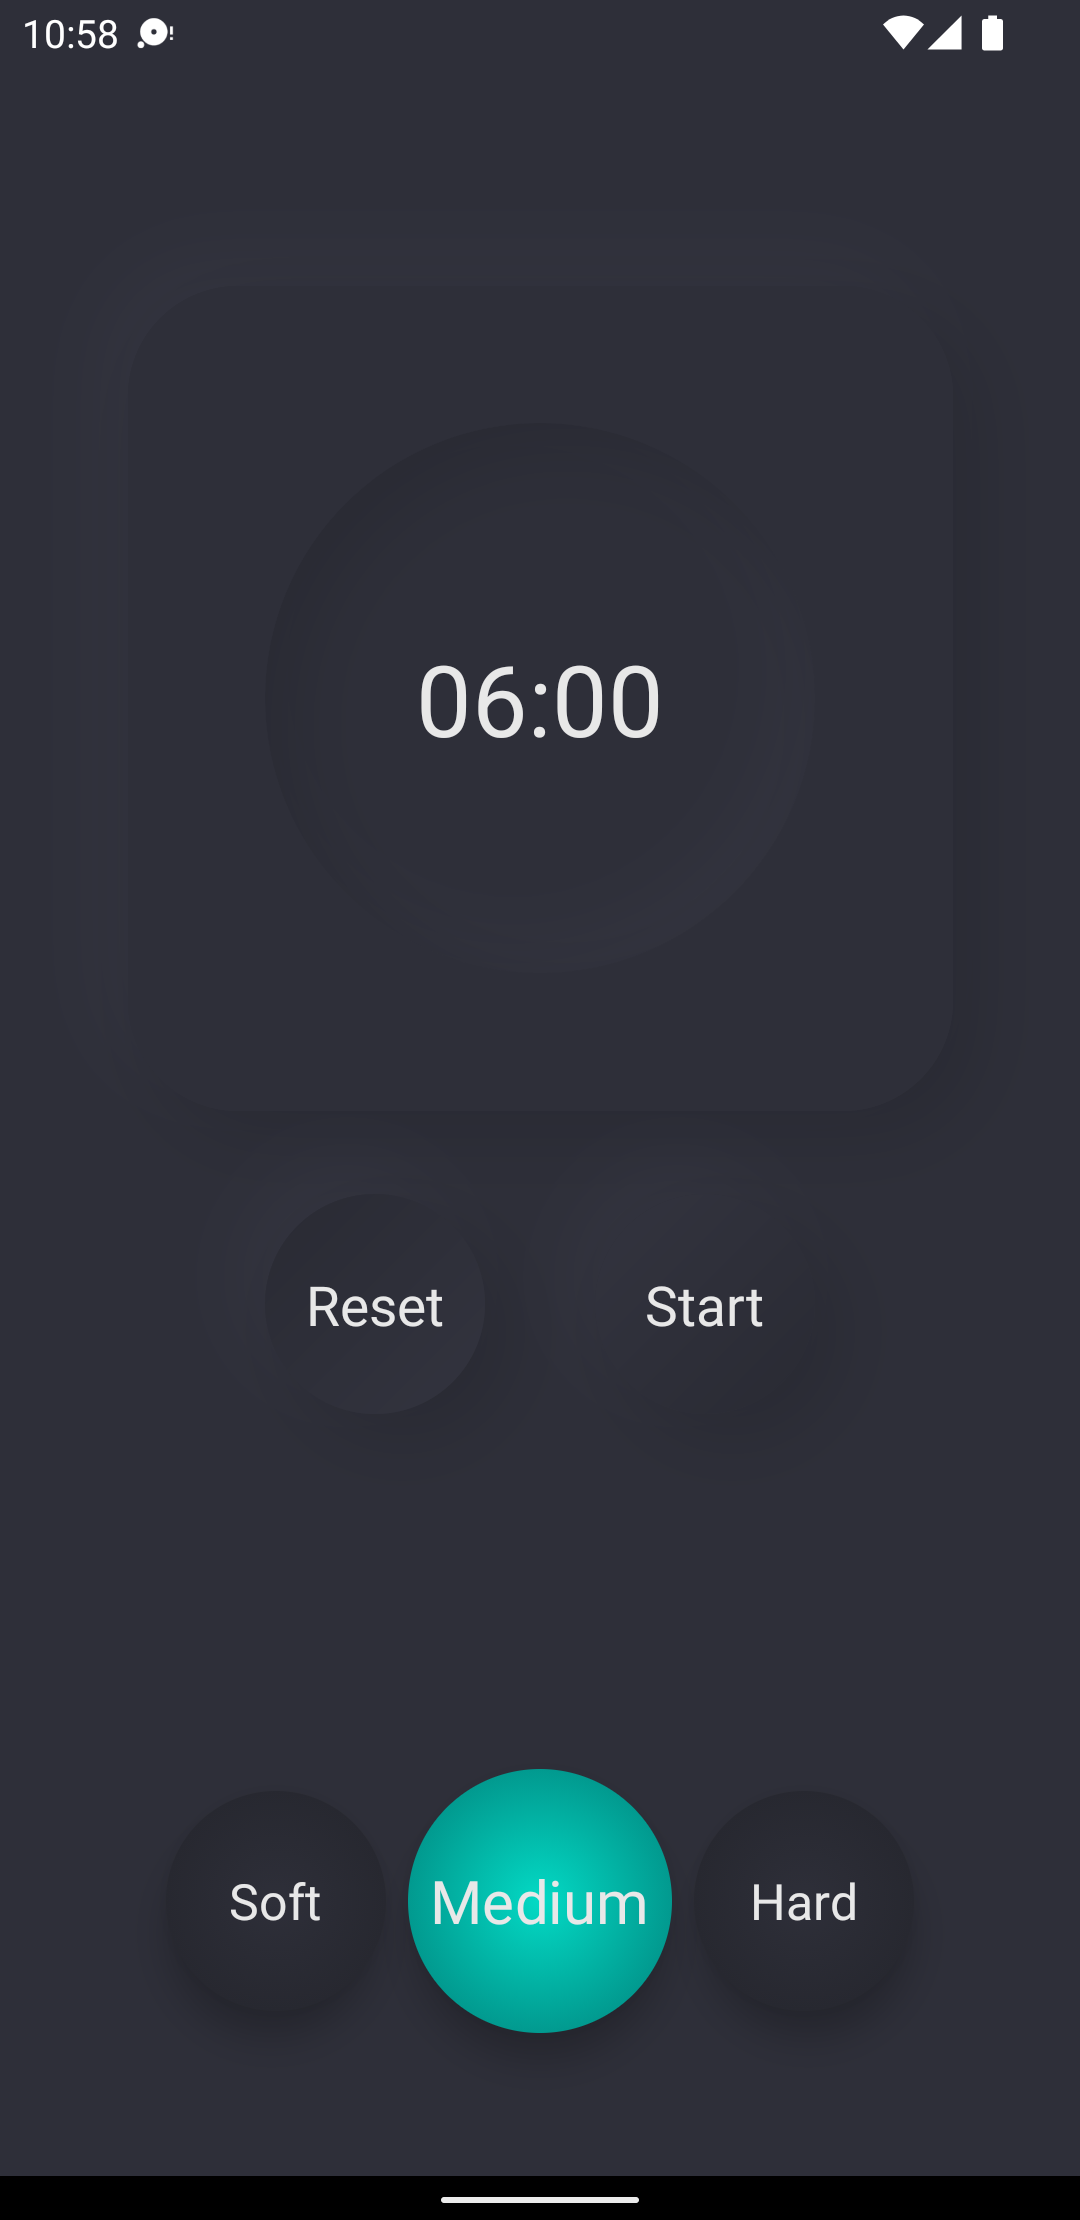
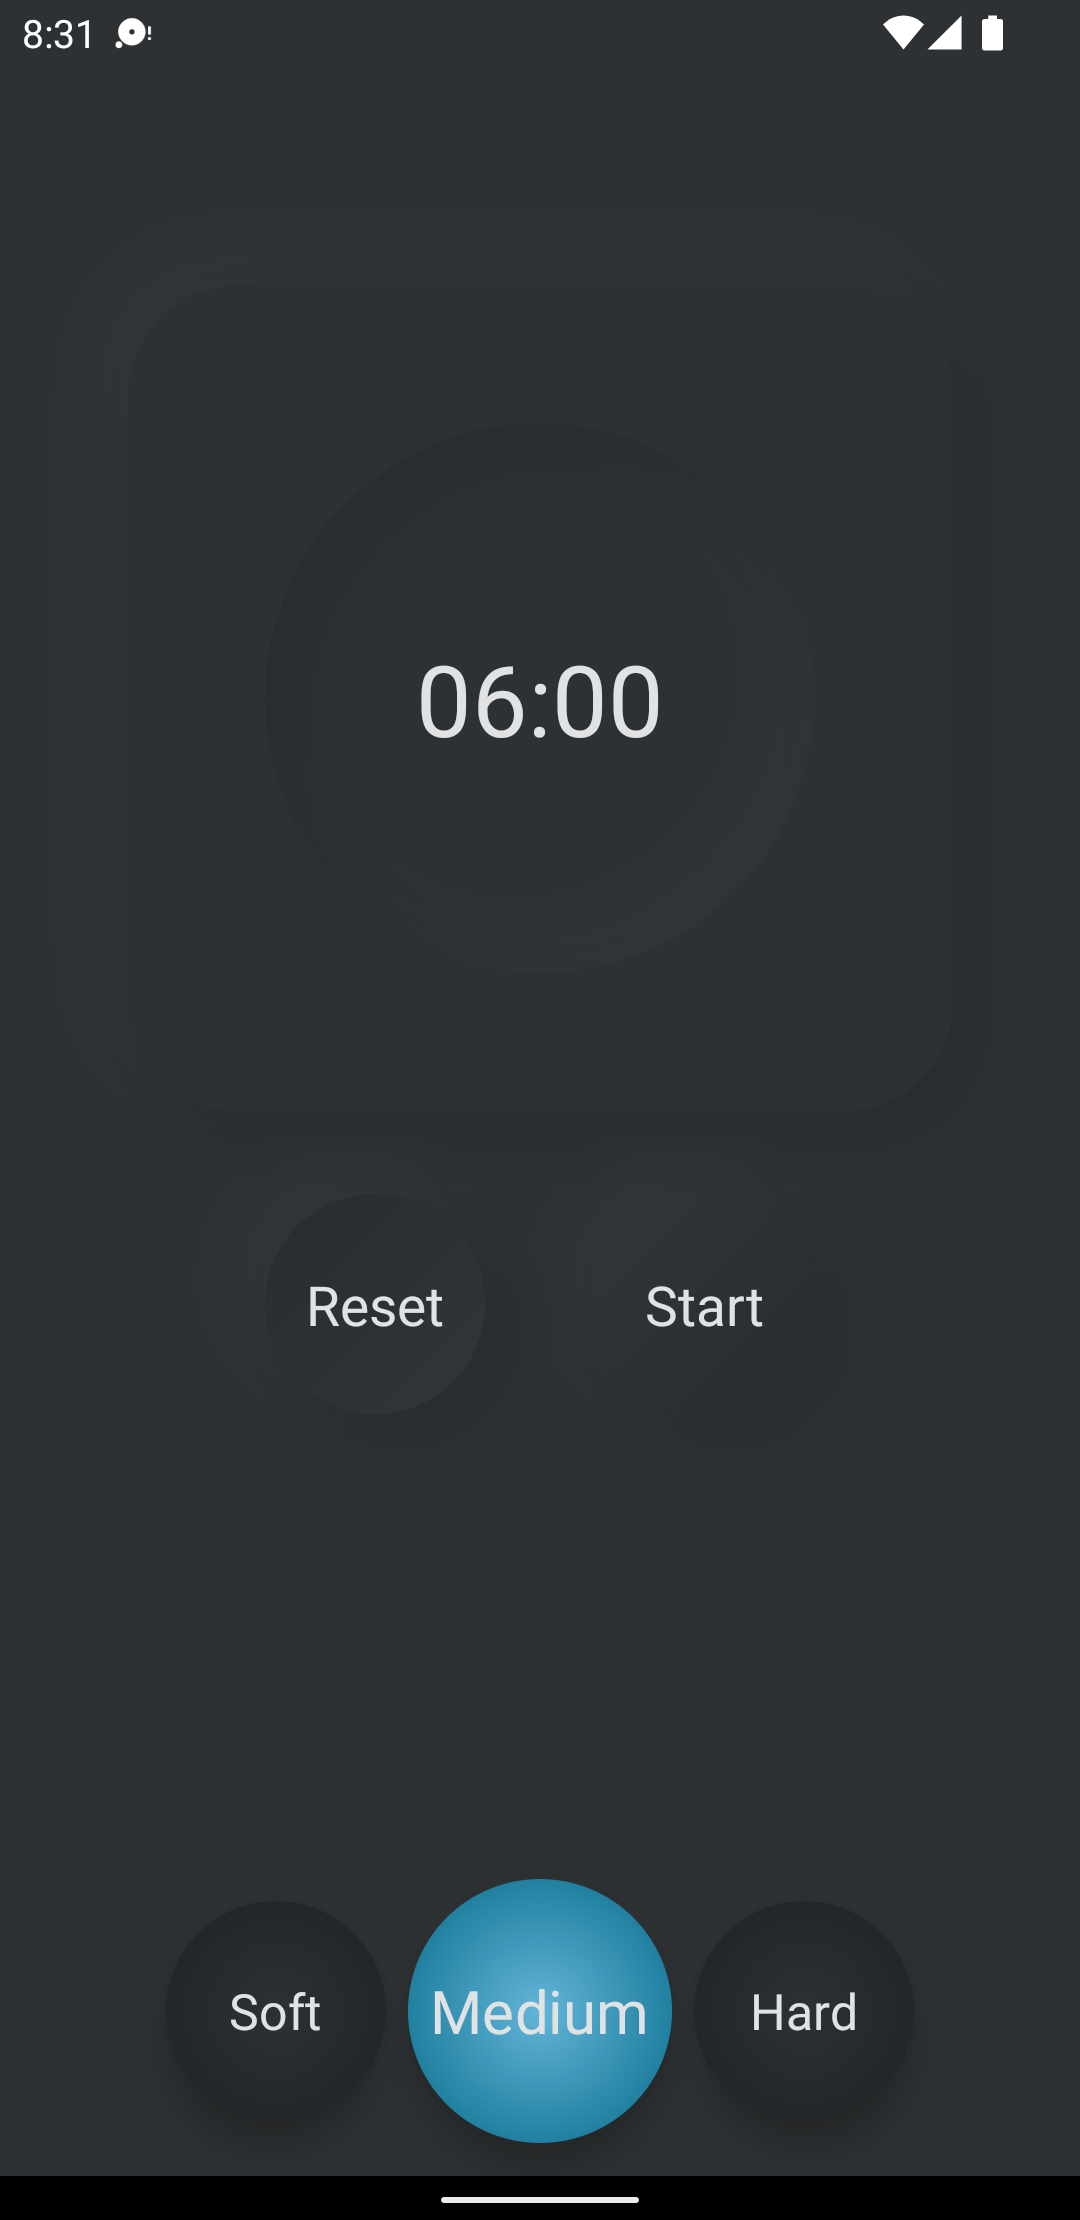
Add Material You support

diff --git a/app/src/main/java/com/tarikyasar/eggtimer/MainActivity.kt b/app/src/main/java/com/tarikyasar/eggtimer/MainActivity.kt
@@ -9,7 +9,6 @@ import android.view.MotionEvent
 import android.view.animation.Animation
 import android.view.animation.AnimationUtils
 import androidx.appcompat.app.AppCompatActivity
-import androidx.core.widget.addTextChangedListener
 import com.borutsky.neumorphism.NeumorphicFrameLayout
 import com.tarikyasar.eggtimer.databinding.ActivityMainBinding
 import com.tarikyasar.eggtimer.utils.Constants
@@ -131,33 +130,23 @@ class MainActivity : AppCompatActivity() {
             when (checkedId) {
                 R.id.radioButtonSoftCooked -> {
                     cookTime = eggMap[EggCookTypes.SOFT_BOILED]!!
+                    binding.etTimer.setText(TimeUtils.formatTime(cookTime * Constants.DEFAULT_TIME))
+
                 }
                 R.id.radioButtonMediumCooked -> {
                     cookTime = eggMap[EggCookTypes.MEDIUM_BOILED]!!
+                    binding.etTimer.setText(TimeUtils.formatTime(cookTime * Constants.DEFAULT_TIME))
+
 
                 }
                 R.id.radioButtonHardCooked -> {
                     cookTime = eggMap[EggCookTypes.HARD_BOILED]!!
+                    binding.etTimer.setText(TimeUtils.formatTime(cookTime * Constants.DEFAULT_TIME))
+
                 }
             }
 
             resetTimer()
-        }
-
-        binding.buttonCustomTimer.setOnClickListener {
-            if (binding.etTimer.hasFocus()) {
-                binding.etTimer.clearFocus()
-                binding.tvCustomTimer.text = getString(R.string.custom)
-            } else {
-                binding.etTimer.requestFocus()
-                binding.tvCustomTimer.text = getString(R.string.set_custom_timer)
-                binding.etTimer.setText("00:00")
-                binding.etTimer.setSelection(binding.etTimer.text.length)
-            }
-        }
-
-        binding.etTimer.addTextChangedListener {
-            println(it)
         }
     }
 
